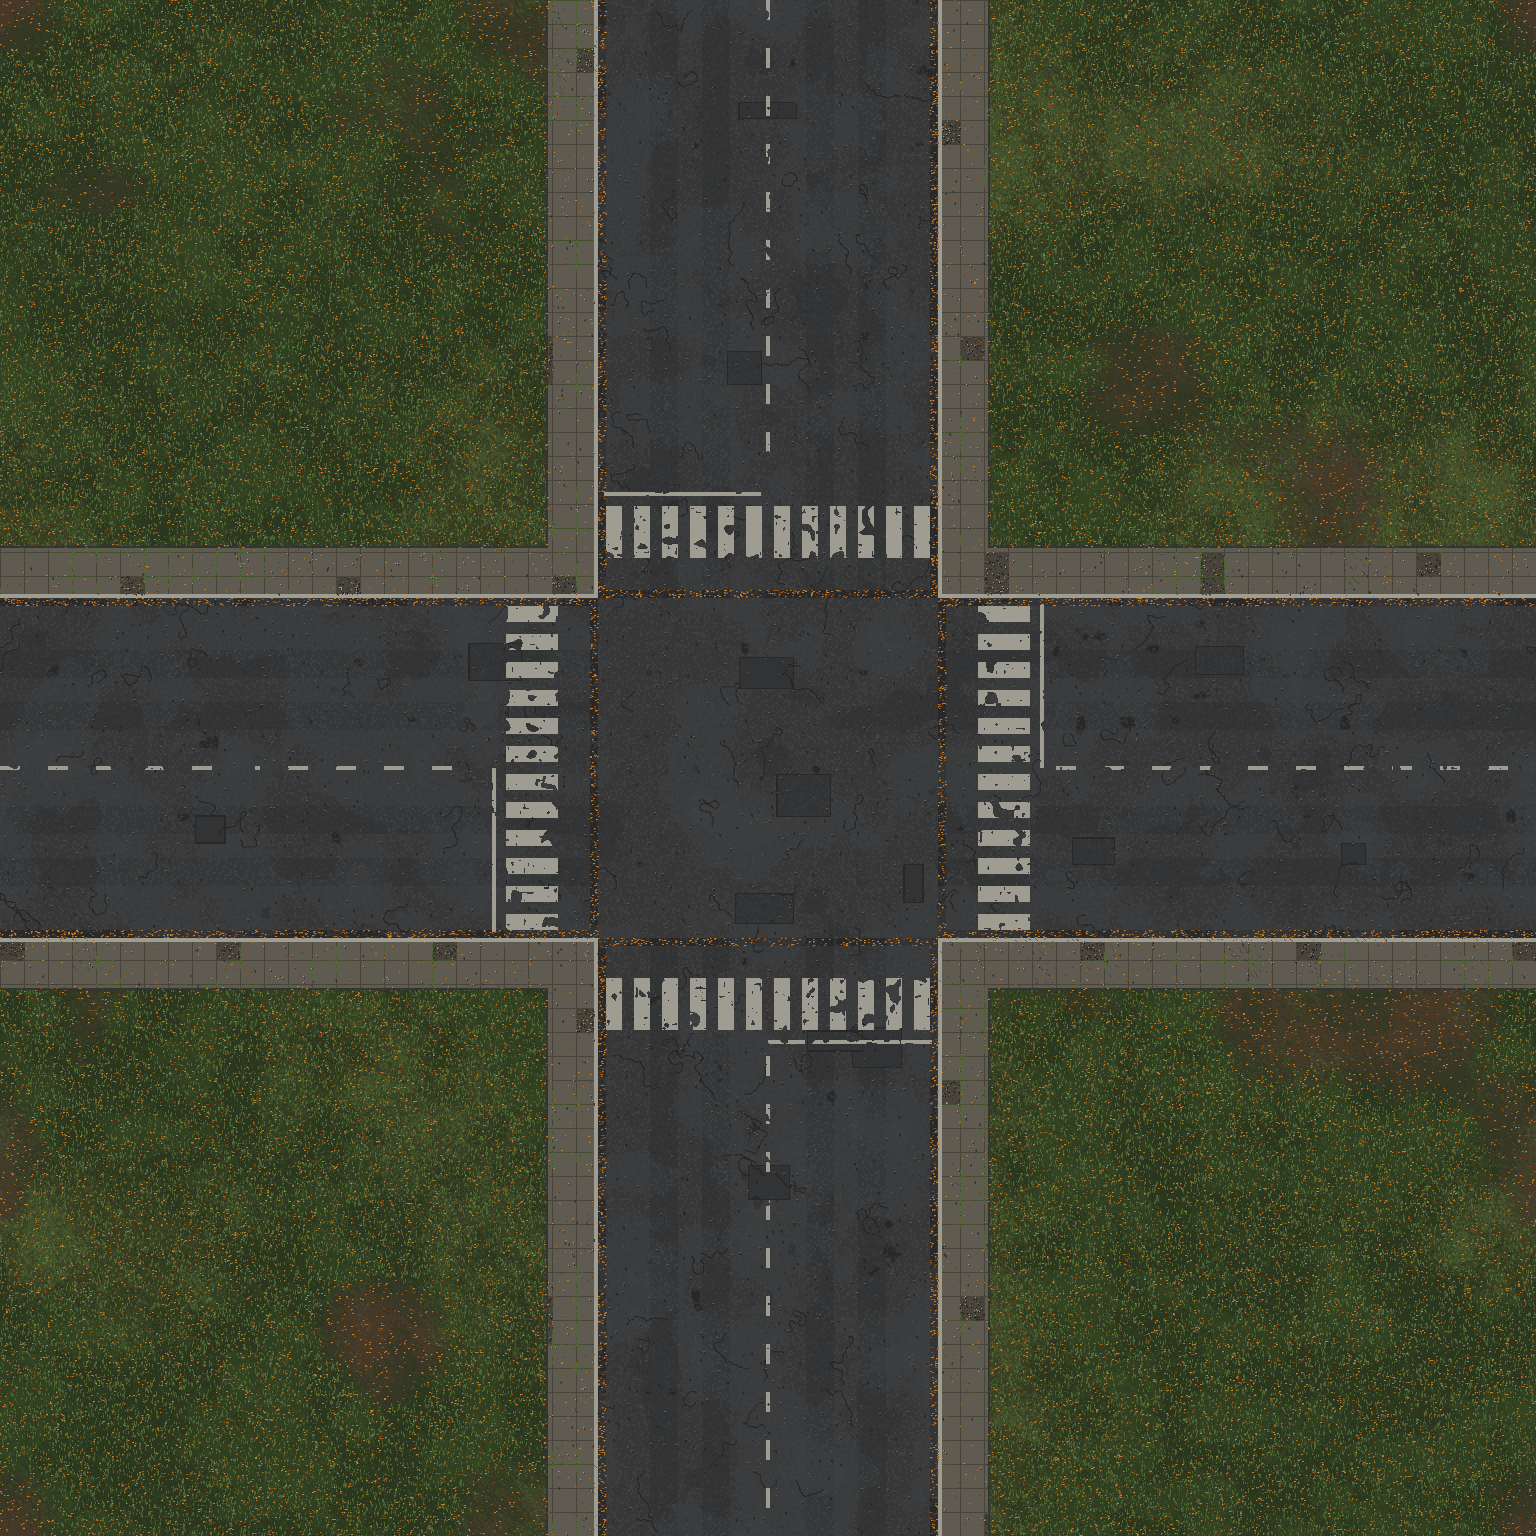
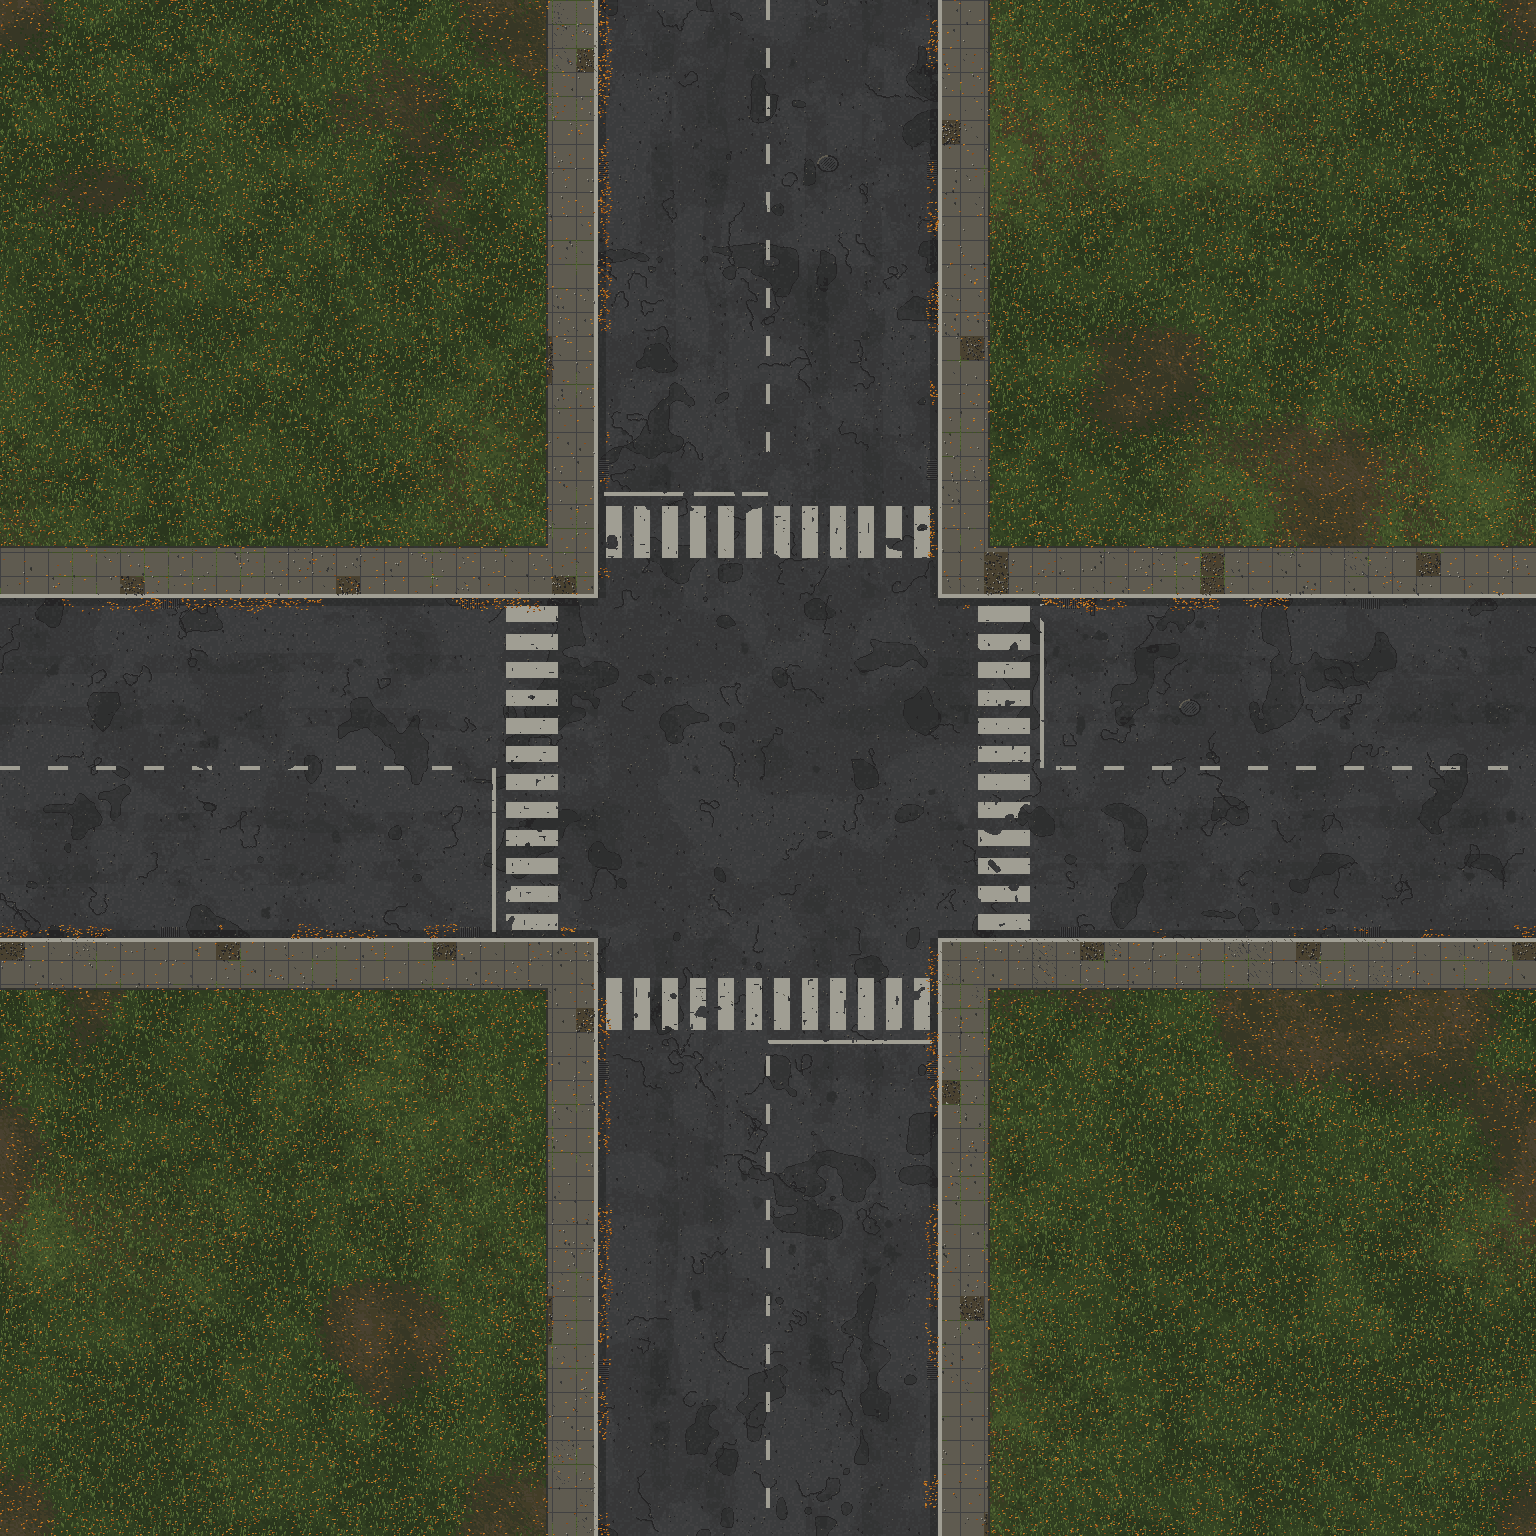
City asphalt: organic repairs instead of rectangles, leaf drifts only at real kerbs
Claude-Session: https://claude.ai/code/session_01Q3d652Ep37MrDZiN13QEse

diff --git a/tools/wa_ground_districts.py b/tools/wa_ground_districts.py
@@ -449,7 +449,7 @@ def military():
     alb, hf = manholes(alb, hf, rv, rh, 3114, 2)
     alb, hf, gutter = kerbs(alb, hf, road, walk, (146, 144, 134), 14.0, 3)
     alb = drains(alb, rv, rh, 3115)
-    alb = clusters(alb, gutter, [(150, 104, 54), (84, 100, 50)], 3113, 0.05)
+    alb = clusters(alb, gutter & (noise(3116, 22, 3) > 0.55), [(150, 104, 54), (84, 100, 50)], 3113, 0.06)
     alb = leaves(alb, plot, 0.002, 3111)
     return alb, hf
 
@@ -482,7 +482,7 @@ def industrial():
     alb, hf = manholes(alb, hf, rv, rh, 4118, 3)
     alb, hf, gutter = kerbs(alb, hf, road, walk, (138, 136, 128), 12.0, 4)
     alb = drains(alb, rv, rh, 4119)
-    alb = clusters(alb, gutter, [(150, 104, 54), (60, 58, 52)], 4117, 0.05)
+    alb = clusters(alb, gutter & (noise(4120, 22, 3) > 0.55), [(150, 104, 54), (60, 58, 52)], 4117, 0.06)
     alb = leaves(alb, plot | walk, 0.003, 4115)
     return alb, hf
 
@@ -501,29 +501,23 @@ def city():
     asp = np.array((58, 59, 60), float)[None, None, :] * tone(9203, 30, 0.9, 1.08, 4, 3)[..., None]
     alb[road] = asp[road]
     hf[road] = 0.0
-    # wheel-polished lanes: slightly darker bands along each arm
     c = (R0 + R1) / 2
-    for off in (-52, -26, 26, 52):
-        lane = (av & (np.abs(X - (c + off)) < 7)) | (ah & (np.abs(Y - (c + off)) < 7))
-        alb[lane] *= 0.94
-    # rectangular repairs with crisp edges
-    rng = np.random.default_rng(9204)
-    for _ in range(14):
-        x0, y0 = rng.uniform(R0, R1 - 30), rng.uniform(0, W - 30)
-        if rng.random() < 0.5:
-            x0, y0 = y0, x0
-        w, h = rng.uniform(10, 30), rng.uniform(8, 22)
-        m = road & (X >= x0) & (X < x0 + w) & (Y >= y0) & (Y < y0 + h)
-        alb[m] = np.array((48, 49, 51), float) * rng.uniform(0.96, 1.04)
-        edge = m & ~((X >= x0 + 0.6) & (X < x0 + w - 0.6) & (Y >= y0 + 0.6) & (Y < y0 + h - 0.6))
-        alb[edge] = (40, 40, 42)
+    # wheel-polished lanes: blotchy, wobbling, never a clean stripe
+    alb, hf = wheel_tracks(alb, hf, road, rv, rh, (-52, -26, 26, 52), half=5.0, k=0.93)
+    # asphalt repairs: irregular blobs with a crisp, slightly darker seam
+    # (rectangles read as foreign squares on the road)
+    pn = noise(9204, 26, 3)
+    patch = road & (pn > 0.7)
+    alb[patch] = alb[patch] * 0.86
+    seam = patch & ~(np.roll(patch, 1, 0) & np.roll(patch, -1, 0) & np.roll(patch, 1, 1) & np.roll(patch, -1, 1))
+    alb[seam] = (40, 40, 42)
     alb, hf = cracks(alb, hf, road, 9205, 150, (36, 36, 38))
     oil = soft(noise(9206, 12, 3), 0.8, 0.85) * road
     alb *= (1 - 0.18 * oil)[..., None]
     alb = speckle(alb, road, 0.012, [(92, 92, 90), (40, 40, 42)], 9207)
     # markings (worn: paint missing in clusters)
     paint = np.array((178, 176, 164), float)
-    wear = (noise(9208, 7, 2) > 0.3) & (noise(9217, 2, 1) > 0.12)
+    wear = (noise(9208, 9, 2) > 0.22) & (noise(9217, 2, 1) > 0.08)
     marks = np.zeros((N, N), bool)
     # zebra crossings on every arm just outside the junction
     for a, b in ((253, 279), (489, 515)):
@@ -540,15 +534,23 @@ def city():
     marks |= dash_v | dash_h
     marks &= wear
     alb[marks] = paint * tone(9209, 6, 0.9, 1.0, 3, 2)[marks][..., None]
+    alb, hf = manholes(alb, hf, rv, rh, 9218, 2)
+    alb = drains(alb, rv, rh, 9219)
     # kerbs: granite edge stones along the carriageway, shadow on the road side
     edge_d = np.minimum(np.minimum(np.abs(X - R0), np.abs(X - R1)), np.minimum(np.abs(Y - R0), np.abs(Y - R1)))
     kerb = walk & (edge_d < 2.0)
     alb[kerb] = (128, 126, 118)
     kerb_lit = walk & (edge_d < 0.6)
     alb[kerb_lit] = (150, 148, 140)
-    gutter = road & ~inter & (edge_d < 4.0)
+    # gutter only beside a real kerb (per arm), never across the junction or the
+    # crossing arm; leaves gather there in irregular drifts, not a dotted line
+    gdx = np.minimum(np.abs(X - R0), np.abs(X - R1))
+    gdy = np.minimum(np.abs(Y - R0), np.abs(Y - R1))
+    gutter = (av & (gdx < 4.0)) | (ah & (gdy < 4.0))
     alb[gutter] *= 0.82
-    alb = leaves(alb, gutter, 0.08, 9210)
+    drift = (av & (gdx < 3.0 + 5.0 * noise(9220, 14, 2))) | (ah & (gdy < 3.0 + 5.0 * noise(9221, 14, 2)))
+    drift &= noise(9222, 22, 3) > 0.52
+    alb = leaves(alb, drift, 0.09, 9210)
     # pavements: concrete tiles with grout, per-tile tone, broken / missing tiles
     tile = 12.0
     tx, ty = np.floor(X / tile), np.floor(Y / tile)

diff --git a/README_1380_DEV1_WORLD_HD.md b/README_1380_DEV1_WORLD_HD.md
@@ -270,3 +270,13 @@ QA: `tests/qa_vertical_fence_capture.gd`.
 - `_dress_service_verges` ставит их вдоль дорог дачных и лесных районов
   (дачи: поленницы, тачки, бидоны, указатели, ящики; лес: поленницы, пни,
   указатели).
+
+## Городской асфальт (dev14)
+
+- Убраны прямоугольные заплатки на асфальте: вместо них неровные пятна
+  ремонта с тёмным швом.
+- Листья в лотке лежали прямыми пунктирными линиями по продолжению бордюров
+  прямо через перекрёсток и очерчивали квадраты. Теперь лоток и листва только
+  у настоящих бордюров, неровными кучками. То же для военного района и промзоны.
+- Зебры стёрты меньше, колеи на городских улицах пятнистые; добавлены люки и
+  решётки ливнёвки.
